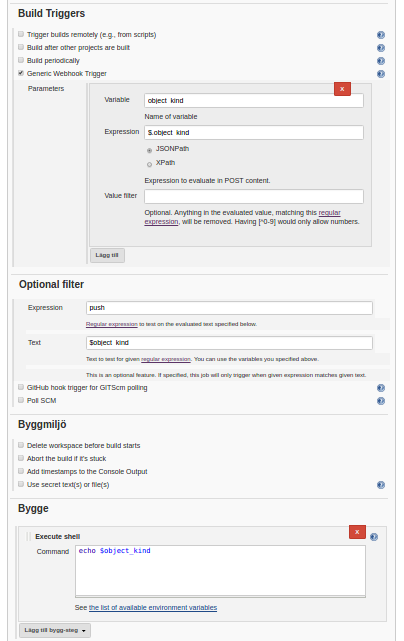
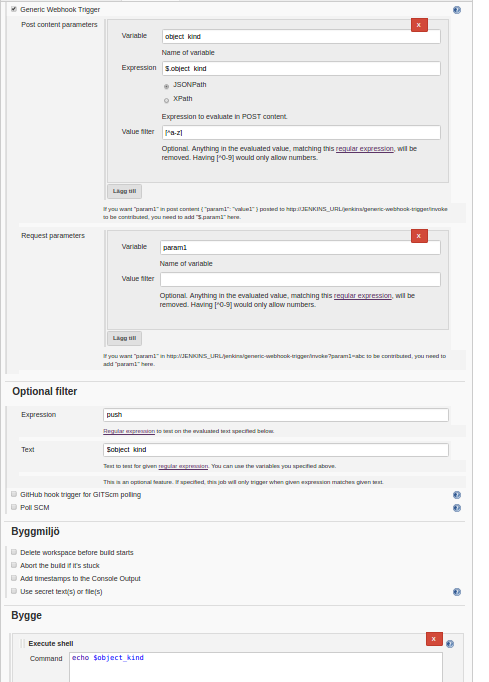
White list request parameters #3
* To make it more secure. Also adding regexp filter for them.

Changed region(s): [[0.0, 0.0, 0.9802, 1.0], [0.8614, 0.9048, 0.9208, 0.9672], [0.802, 0.1248, 0.8911, 0.156]]

diff --git a/src/test/java/org/jenkinsci/plugins/gwt/VariablesResolverTest.java b/src/test/java/org/jenkinsci/plugins/gwt/VariablesResolverTest.java
@@ -5,6 +5,7 @@ import static org.assertj.core.api.Assertions.assertThat;
 import static org.jenkinsci.plugins.gwt.ExpressionType.JSONPath;
 import static org.jenkinsci.plugins.gwt.ExpressionType.XPath;
 
+import java.util.ArrayList;
 import java.util.HashMap;
 import java.util.List;
 import java.util.Map;
@@ -26,12 +27,16 @@ public class VariablesResolverTest {
         newArrayList( //
             new GenericVariable("ids", "$..id", JSONPath, regexpFilter));
     Map<String, String[]> parameterMap = new HashMap<>();
-    String[] values = new String[] {"a", "b"};
-    parameterMap.put("reqp1", values);
+    String[] values1 = new String[] {"a", "b"};
+    parameterMap.put("reqp1", values1);
     String[] values2 = new String[] {"just one"};
     parameterMap.put("reqp2", values2);
+    List<GenericRequestVariable> genericRequestVariables = new ArrayList<>();
+    genericRequestVariables.add(new GenericRequestVariable("reqp1", ""));
+    genericRequestVariables.add(new GenericRequestVariable("reqp2", ""));
     Map<String, String> variables =
-        new VariablesResolver(parameterMap, postContent, genericVariables).getVariables();
+        new VariablesResolver(parameterMap, postContent, genericVariables, genericRequestVariables)
+            .getVariables();
 
     assertThat(variables) //
         .containsEntry("ids_0", "28") //
@@ -44,6 +49,42 @@ public class VariablesResolverTest {
   }
 
   @Test
+  public void testGenericRequestParameters() throws Exception {
+    String postContent = null;
+
+    List<GenericVariable> genericVariables = newArrayList();
+
+    Map<String, String[]> parameterMap = new HashMap<>();
+    String[] values1 = new String[] {"abc123456cdef", "ABCdef"};
+    parameterMap.put("reqp1", values1);
+
+    String[] values2 = new String[] {"this one will be ignored"};
+    parameterMap.put("reqp2", values2);
+
+    String[] values3 = new String[] {"just one"};
+    parameterMap.put("reqp3", values3);
+
+    String[] values4 = new String[] {"just one", "just one again"};
+    parameterMap.put("reqp4", values4);
+
+    List<GenericRequestVariable> genericRequestVariables = new ArrayList<>();
+    genericRequestVariables.add(new GenericRequestVariable("reqp1", "[^0-9]"));
+    genericRequestVariables.add(new GenericRequestVariable("reqp3", "[^a-z]"));
+    genericRequestVariables.add(new GenericRequestVariable("reqp4", ""));
+
+    Map<String, String> variables =
+        new VariablesResolver(parameterMap, postContent, genericVariables, genericRequestVariables)
+            .getVariables();
+
+    assertThat(variables) //
+        .containsEntry("reqp1", "123456") //
+        .containsEntry("reqp3", "justone") //
+        .containsEntry("reqp4_0", "just one") //
+        .containsEntry("reqp4_1", "just one again") //
+        .hasSize(4);
+  }
+
+  @Test
   public void testJSONPathGetZeroMatchingVariables() throws Exception {
     String resourceName = "gital-mergerequest-comment.json";
     String postContent = getContent(resourceName);
@@ -53,8 +94,10 @@ public class VariablesResolverTest {
         newArrayList( //
             new GenericVariable("ids", "$..abc", JSONPath, regexpFilter));
     Map<String, String[]> parameterMap = new HashMap<>();
+    List<GenericRequestVariable> genericRequestVariables = new ArrayList<>();
     Map<String, String> variables =
-        new VariablesResolver(parameterMap, postContent, genericVariables).getVariables();
+        new VariablesResolver(parameterMap, postContent, genericVariables, genericRequestVariables)
+            .getVariables();
 
     assertThat(variables) //
         .isEmpty();
@@ -70,8 +113,10 @@ public class VariablesResolverTest {
         newArrayList( //
             new GenericVariable("user_name", "$.user.name", JSONPath, regexpFilter));
     Map<String, String[]> parameterMap = new HashMap<>();
+    List<GenericRequestVariable> genericRequestVariables = new ArrayList<>();
     Map<String, String> variables =
-        new VariablesResolver(parameterMap, postContent, genericVariables).getVariables();
+        new VariablesResolver(parameterMap, postContent, genericVariables, genericRequestVariables)
+            .getVariables();
 
     assertThat(variables) //
         .containsEntry("user_name", "Administrator");
@@ -88,8 +133,10 @@ public class VariablesResolverTest {
             new GenericVariable("user_name", "$.user.name", JSONPath, "[aA]"), //
             new GenericVariable("project_id", "$.project_id", JSONPath, regexpFilter));
     Map<String, String[]> parameterMap = new HashMap<>();
+    List<GenericRequestVariable> genericRequestVariables = new ArrayList<>();
     Map<String, String> variables =
-        new VariablesResolver(parameterMap, postContent, genericVariables).getVariables();
+        new VariablesResolver(parameterMap, postContent, genericVariables, genericRequestVariables)
+            .getVariables();
 
     assertThat(variables) //
         .containsEntry("user_name", "dministrtor") //
@@ -106,8 +153,10 @@ public class VariablesResolverTest {
         newArrayList( //
             new GenericVariable("book", "/bookstore/book[1]/title", XPath, regexpFilter));
     Map<String, String[]> parameterMap = new HashMap<>();
+    List<GenericRequestVariable> genericRequestVariables = new ArrayList<>();
     Map<String, String> variables =
-        new VariablesResolver(parameterMap, postContent, genericVariables).getVariables();
+        new VariablesResolver(parameterMap, postContent, genericVariables, genericRequestVariables)
+            .getVariables();
 
     assertThat(variables) //
         .containsEntry("book", "Harry Potter");
@@ -124,8 +173,10 @@ public class VariablesResolverTest {
             new GenericVariable("book1", "/bookstore/book[1]/title", XPath, "\\s"), //
             new GenericVariable("book2", "/bookstore/book[2]/title", XPath, regexpFilter));
     Map<String, String[]> parameterMap = new HashMap<>();
+    List<GenericRequestVariable> genericRequestVariables = new ArrayList<>();
     Map<String, String> variables =
-        new VariablesResolver(parameterMap, postContent, genericVariables).getVariables();
+        new VariablesResolver(parameterMap, postContent, genericVariables, genericRequestVariables)
+            .getVariables();
 
     assertThat(variables) //
         .containsEntry("book1", "HarryPotter") //
@@ -141,8 +192,10 @@ public class VariablesResolverTest {
         newArrayList( //
             new GenericVariable("book1", "/bookstore/book[1]/title123", XPath, "[a-z]"));
     Map<String, String[]> parameterMap = new HashMap<>();
+    List<GenericRequestVariable> genericRequestVariables = new ArrayList<>();
     Map<String, String> variables =
-        new VariablesResolver(parameterMap, postContent, genericVariables).getVariables();
+        new VariablesResolver(parameterMap, postContent, genericVariables, genericRequestVariables)
+            .getVariables();
 
     assertThat(variables) //
         .containsEntry("book1", "");

diff --git a/src/main/java/org/jenkinsci/plugins/gwt/VariablesResolver.java b/src/main/java/org/jenkinsci/plugins/gwt/VariablesResolver.java
@@ -1,10 +1,13 @@
 package org.jenkinsci.plugins.gwt;
 
+import static com.google.common.base.Optional.absent;
+import static com.google.common.base.Optional.fromNullable;
 import static com.google.common.collect.Maps.newHashMap;
 import static org.jenkinsci.plugins.gwt.ExpressionType.JSONPath;
 import static org.jenkinsci.plugins.gwt.ExpressionType.XPath;
 
 import java.io.ByteArrayInputStream;
+import java.util.ArrayList;
 import java.util.List;
 import java.util.Map;
 import java.util.logging.Logger;
@@ -18,6 +21,7 @@ import javax.xml.xpath.XPathFactory;
 import org.w3c.dom.Document;
 import org.xml.sax.InputSource;
 
+import com.google.common.base.Optional;
 import com.google.common.collect.Lists;
 import com.jayway.jsonpath.JsonPath;
 
@@ -25,50 +29,88 @@ public class VariablesResolver {
   private static final Logger LOGGER = Logger.getLogger(VariablesResolver.class.getName());
 
   private List<GenericVariable> genericVariables = Lists.newArrayList();
+  private final List<GenericRequestVariable> genericRequestVariables;
   private final String postContent;
   private final Map<String, String[]> parameterMap;
 
   public VariablesResolver(
       Map<String, String[]> parameterMap,
       String postContent,
-      List<GenericVariable> genericVariables) {
+      List<GenericVariable> genericVariables,
+      List<GenericRequestVariable> genericRequestVariables) {
     this.postContent = postContent;
     this.genericVariables = genericVariables;
     this.parameterMap = parameterMap;
+    this.genericRequestVariables = genericRequestVariables;
   }
 
   public Map<String, String> getVariables() {
     Map<String, String> map = newHashMap();
-
-    for (String requestParamName : parameterMap.keySet()) {
-      String[] values = parameterMap.get(requestParamName);
-      if (values.length == 1) {
-        map.put(requestParamName, values[0]);
-      } else {
-        for (int i = 0; i < values.length; i++) {
-          map.put(requestParamName + "_" + i, values[i]);
-        }
-      }
-    }
-
-    if (genericVariables == null) {
-      return map;
-    }
-
-    for (GenericVariable gv : genericVariables) {
-      Object resolved = resolve(gv);
-
-      if (resolved instanceof List) {
-        int i = 0;
-        for (Object o : (List<?>) resolved) {
-          map.put(gv.getKey() + "_" + i, filter(o.toString(), gv.getRegexpFilter()));
-          i++;
-        }
-      } else {
-        map.put(gv.getKey(), filter(resolved.toString(), gv.getRegexpFilter()));
-      }
-    }
+    addRequestParameters(map);
+    addPostContentParameters(map);
     return map;
+  }
+
+  private void addPostContentParameters(Map<String, String> map) {
+    if (genericVariables != null) {
+      for (GenericVariable gv : genericVariables) {
+        Object resolved = resolve(gv);
+
+        if (resolved instanceof List) {
+          int i = 0;
+          for (Object o : (List<?>) resolved) {
+            map.put(gv.getKey() + "_" + i, filter(o.toString(), gv.getRegexpFilter()));
+            i++;
+          }
+        } else {
+          map.put(gv.getKey(), filter(resolved.toString(), gv.getRegexpFilter()));
+        }
+      }
+    }
+  }
+
+  private void addRequestParameters(Map<String, String> map) {
+    if (parameterMap != null) {
+      for (String requestParamName : parameterMap.keySet()) {
+        String[] values = parameterMap.get(requestParamName);
+        Optional<String> mappedRequestParameterOpt =
+            findMappedRequestParameter(genericRequestVariables, requestParamName);
+        if (!mappedRequestParameterOpt.isPresent()) {
+          continue;
+        }
+        String regexpFilter = mappedRequestParameterOpt.get();
+        if (values.length == 1) {
+          map.put(requestParamName, filter(values[0], regexpFilter));
+        } else {
+          List<String> foundValues = new ArrayList<>();
+          for (String value2 : values) {
+            String value = filter(value2, regexpFilter);
+            if (!value.isEmpty()) {
+              foundValues.add(value);
+            }
+          }
+          if (foundValues.size() == 1) {
+            map.put(requestParamName, filter(foundValues.get(0), regexpFilter));
+          } else {
+            for (int i = 0; i < foundValues.size(); i++) {
+              map.put(requestParamName + "_" + i, foundValues.get(i));
+            }
+          }
+        }
+      }
+    }
+  }
+
+  private Optional<String> findMappedRequestParameter(
+      List<GenericRequestVariable> genericRequestVariables, String requestParamName) {
+    if (genericRequestVariables != null) {
+      for (GenericRequestVariable v : genericRequestVariables) {
+        if (v.getKey().equals(requestParamName)) {
+          return fromNullable(v.getRegexpFilter());
+        }
+      }
+    }
+    return absent();
   }
 
   private String filter(String string, String regexpFilter) {

diff --git a/src/main/java/org/jenkinsci/plugins/gwt/GenericTrigger.java b/src/main/java/org/jenkinsci/plugins/gwt/GenericTrigger.java
@@ -29,6 +29,7 @@ public class GenericTrigger extends Trigger<AbstractProject<?, ?>> {
   private List<GenericVariable> genericVariables = newArrayList();
   private final String regexpFilterText;
   private final String regexpFilterExpression;
+  private List<GenericRequestVariable> genericRequestVariables = newArrayList();
 
   public static class GenericDescriptor extends TriggerDescriptor {
 
@@ -47,17 +48,20 @@ public class GenericTrigger extends Trigger<AbstractProject<?, ?>> {
   public GenericTrigger(
       List<GenericVariable> genericVariables,
       String regexpFilterText,
-      String regexpFilterExpression) {
+      String regexpFilterExpression,
+      List<GenericRequestVariable> genericRequestVariables) {
     this.genericVariables = genericVariables;
     this.regexpFilterExpression = regexpFilterExpression;
     this.regexpFilterText = regexpFilterText;
+    this.genericRequestVariables = genericRequestVariables;
   }
 
   @Extension public static final GenericDescriptor DESCRIPTOR = new GenericDescriptor();
 
   public void trigger(Map<String, String[]> parameterMap, String postContent) {
     Map<String, String> resolvedVariables =
-        new VariablesResolver(parameterMap, postContent, genericVariables).getVariables();
+        new VariablesResolver(parameterMap, postContent, genericVariables, genericRequestVariables)
+            .getVariables();
 
     boolean isMatching = isMatching(regexpFilterText, regexpFilterExpression, resolvedVariables);
 
@@ -117,6 +121,10 @@ public class GenericTrigger extends Trigger<AbstractProject<?, ?>> {
     return regexpFilterExpression;
   }
 
+  public List<GenericRequestVariable> getGenericRequestVariables() {
+    return genericRequestVariables;
+  }
+
   public String getRegexpFilterText() {
     return regexpFilterText;
   }
@@ -129,6 +137,8 @@ public class GenericTrigger extends Trigger<AbstractProject<?, ?>> {
         + regexpFilterText
         + ", regexpFilterExpression="
         + regexpFilterExpression
+        + ", genericRequestVariables="
+        + genericRequestVariables
         + "]";
   }
 }

diff --git a/src/main/java/org/jenkinsci/plugins/gwt/GenericRequestVariable.java b/src/main/java/org/jenkinsci/plugins/gwt/GenericRequestVariable.java
@@ -1,0 +1,43 @@
+package org.jenkinsci.plugins.gwt;
+
+import static com.google.common.base.Preconditions.checkNotNull;
+
+import org.kohsuke.stapler.DataBoundConstructor;
+
+import hudson.Extension;
+import hudson.model.AbstractDescribableImpl;
+import hudson.model.Descriptor;
+
+public class GenericRequestVariable extends AbstractDescribableImpl<GenericRequestVariable> {
+
+  @Extension public static final DescriptorImpl DESCRIPTOR = new DescriptorImpl();
+
+  public static class DescriptorImpl extends Descriptor<GenericRequestVariable> {
+    @Override
+    public String getDisplayName() {
+      return "";
+    }
+  }
+
+  private final String key;
+  private final String regexpFilter;
+
+  @DataBoundConstructor
+  public GenericRequestVariable(String key, String regexpFilter) {
+    this.key = checkNotNull(key, "Variable name");
+    this.regexpFilter = regexpFilter;
+  }
+
+  public String getRegexpFilter() {
+    return regexpFilter;
+  }
+
+  public String getKey() {
+    return key;
+  }
+
+  @Override
+  public String toString() {
+    return "GenericRequestVariable [key=" + key + ", regexpFilter=" + regexpFilter + "]";
+  }
+}

diff --git a/src/test/java/org/jenkinsci/plugins/gwt/GenericTriggerTest.java b/src/test/java/org/jenkinsci/plugins/gwt/GenericTriggerTest.java
@@ -19,7 +19,7 @@ public class GenericTriggerTest {
     resolvedVariables = newHashMap();
     resolvedVariables.put("key1", "resolved1");
     resolvedVariables.put("key2", "resolved2");
-    this.sut = new GenericTrigger(null, null, null);
+    this.sut = new GenericTrigger(null, null, null, null);
   }
 
   @Test

diff --git a/CHANGELOG.md b/CHANGELOG.md
@@ -4,7 +4,7 @@ Changelog of Generic Webhook Plugin.
 ### No issue
 **doc**
 
-[c0fb7148f318dea](https://github.com/jenkinsci/generic-webhook-trigger-plugin/commit/c0fb7148f318dea) Tomas Bjerre *2017-03-28 18:32:21*
+[25d6448d957ca4f](https://github.com/jenkinsci/generic-webhook-trigger-plugin/commit/25d6448d957ca4f) Tomas Bjerre *2017-03-28 18:32:38*
 
 ## 1.5
 ### GitHub [#3](https://github.com/jenkinsci/generic-webhook-trigger-plugin/issues/3) Lacks job selection
